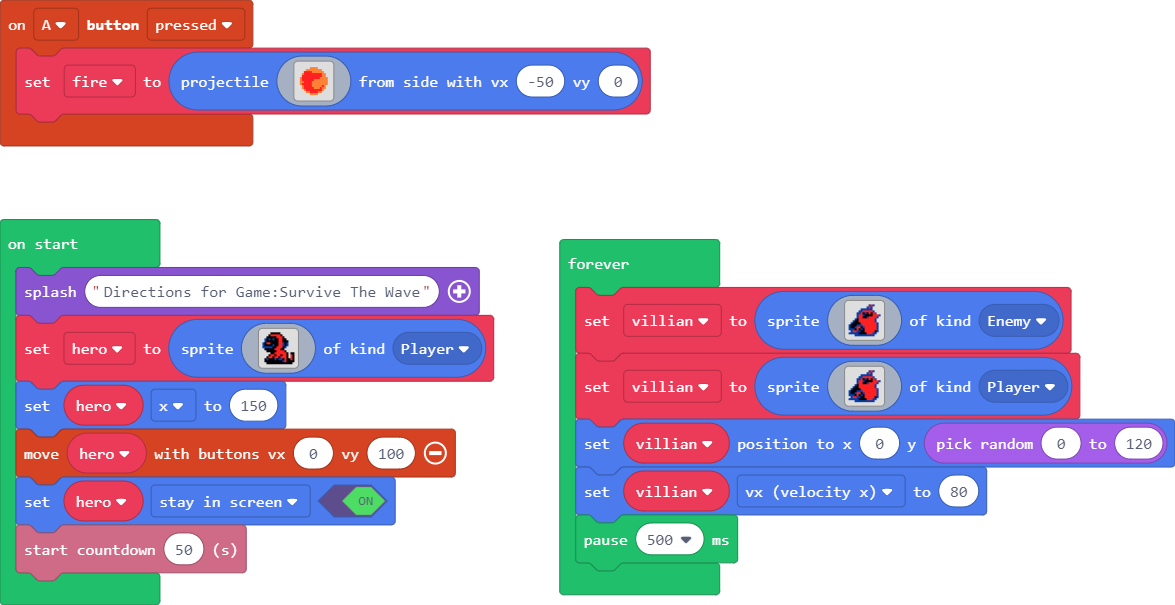
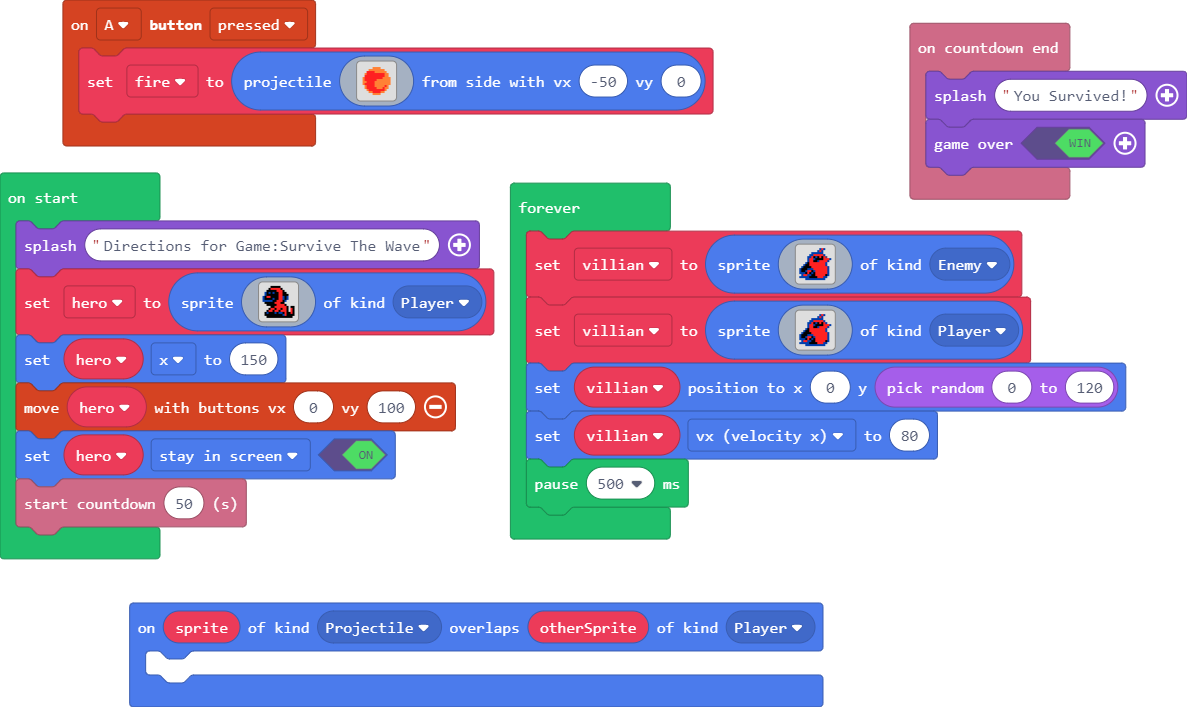
Update main.blocks, main.ts

diff --git a/main.ts b/main.ts
@@ -18,6 +18,13 @@ controller.A.onEvent(ControllerButtonEvent.Pressed, function () {
 . . . . . . . . . . . . . . . . 
 `, -50, 0)
 })
+info.onCountdownEnd(function () {
+    game.splash("You Survived!")
+    game.over(true)
+})
+sprites.onOverlap(SpriteKind.Projectile, SpriteKind.Player, function (sprite, otherSprite) {
+	
+})
 let villian: Sprite = null
 let fire: Sprite = null
 game.splash("Directions for Game:Survive The Wave")
